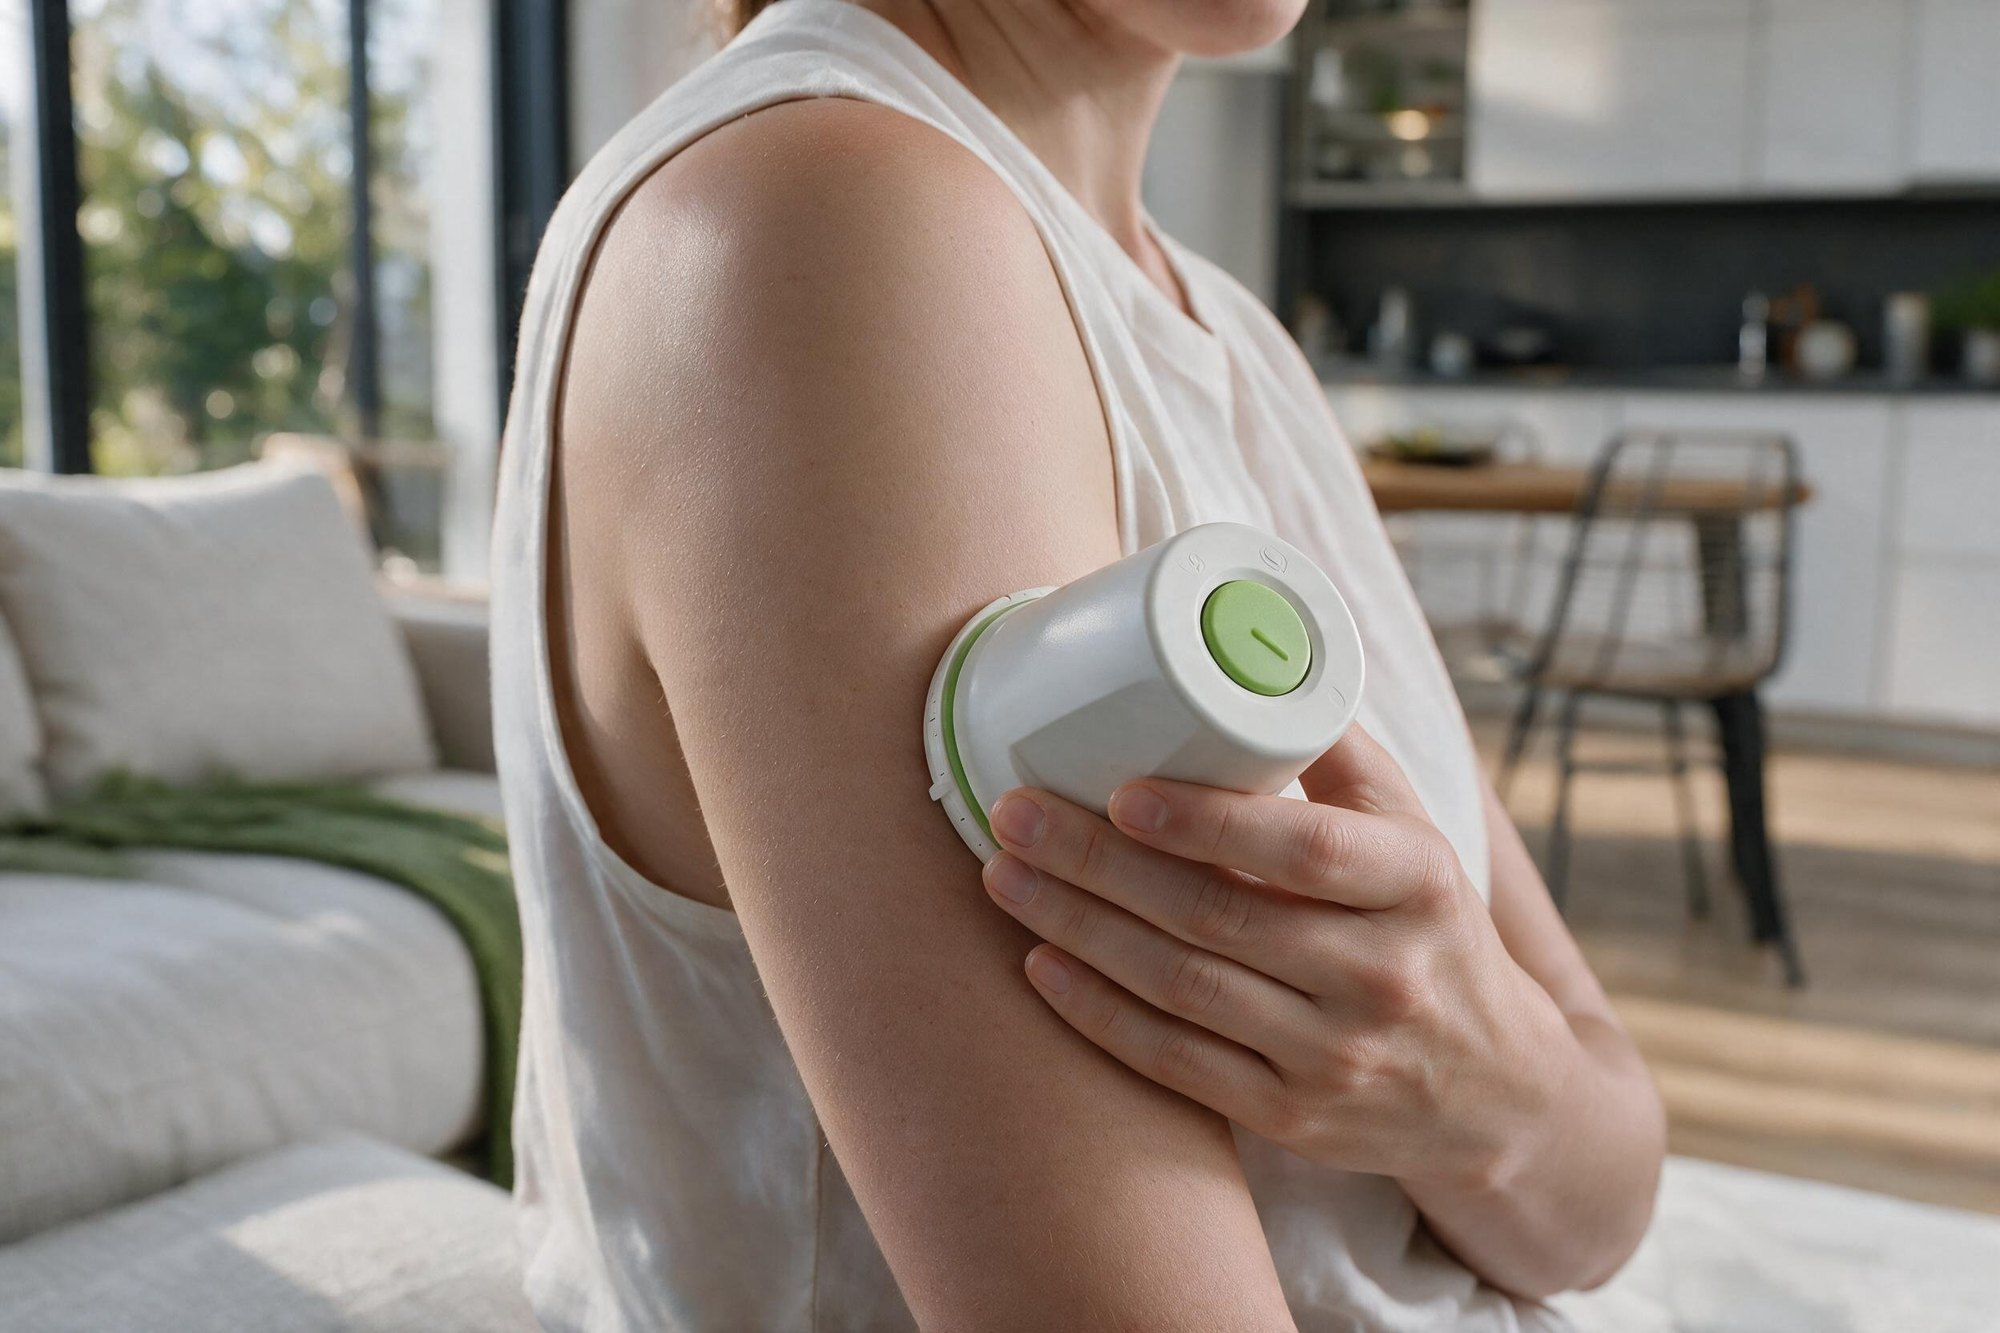
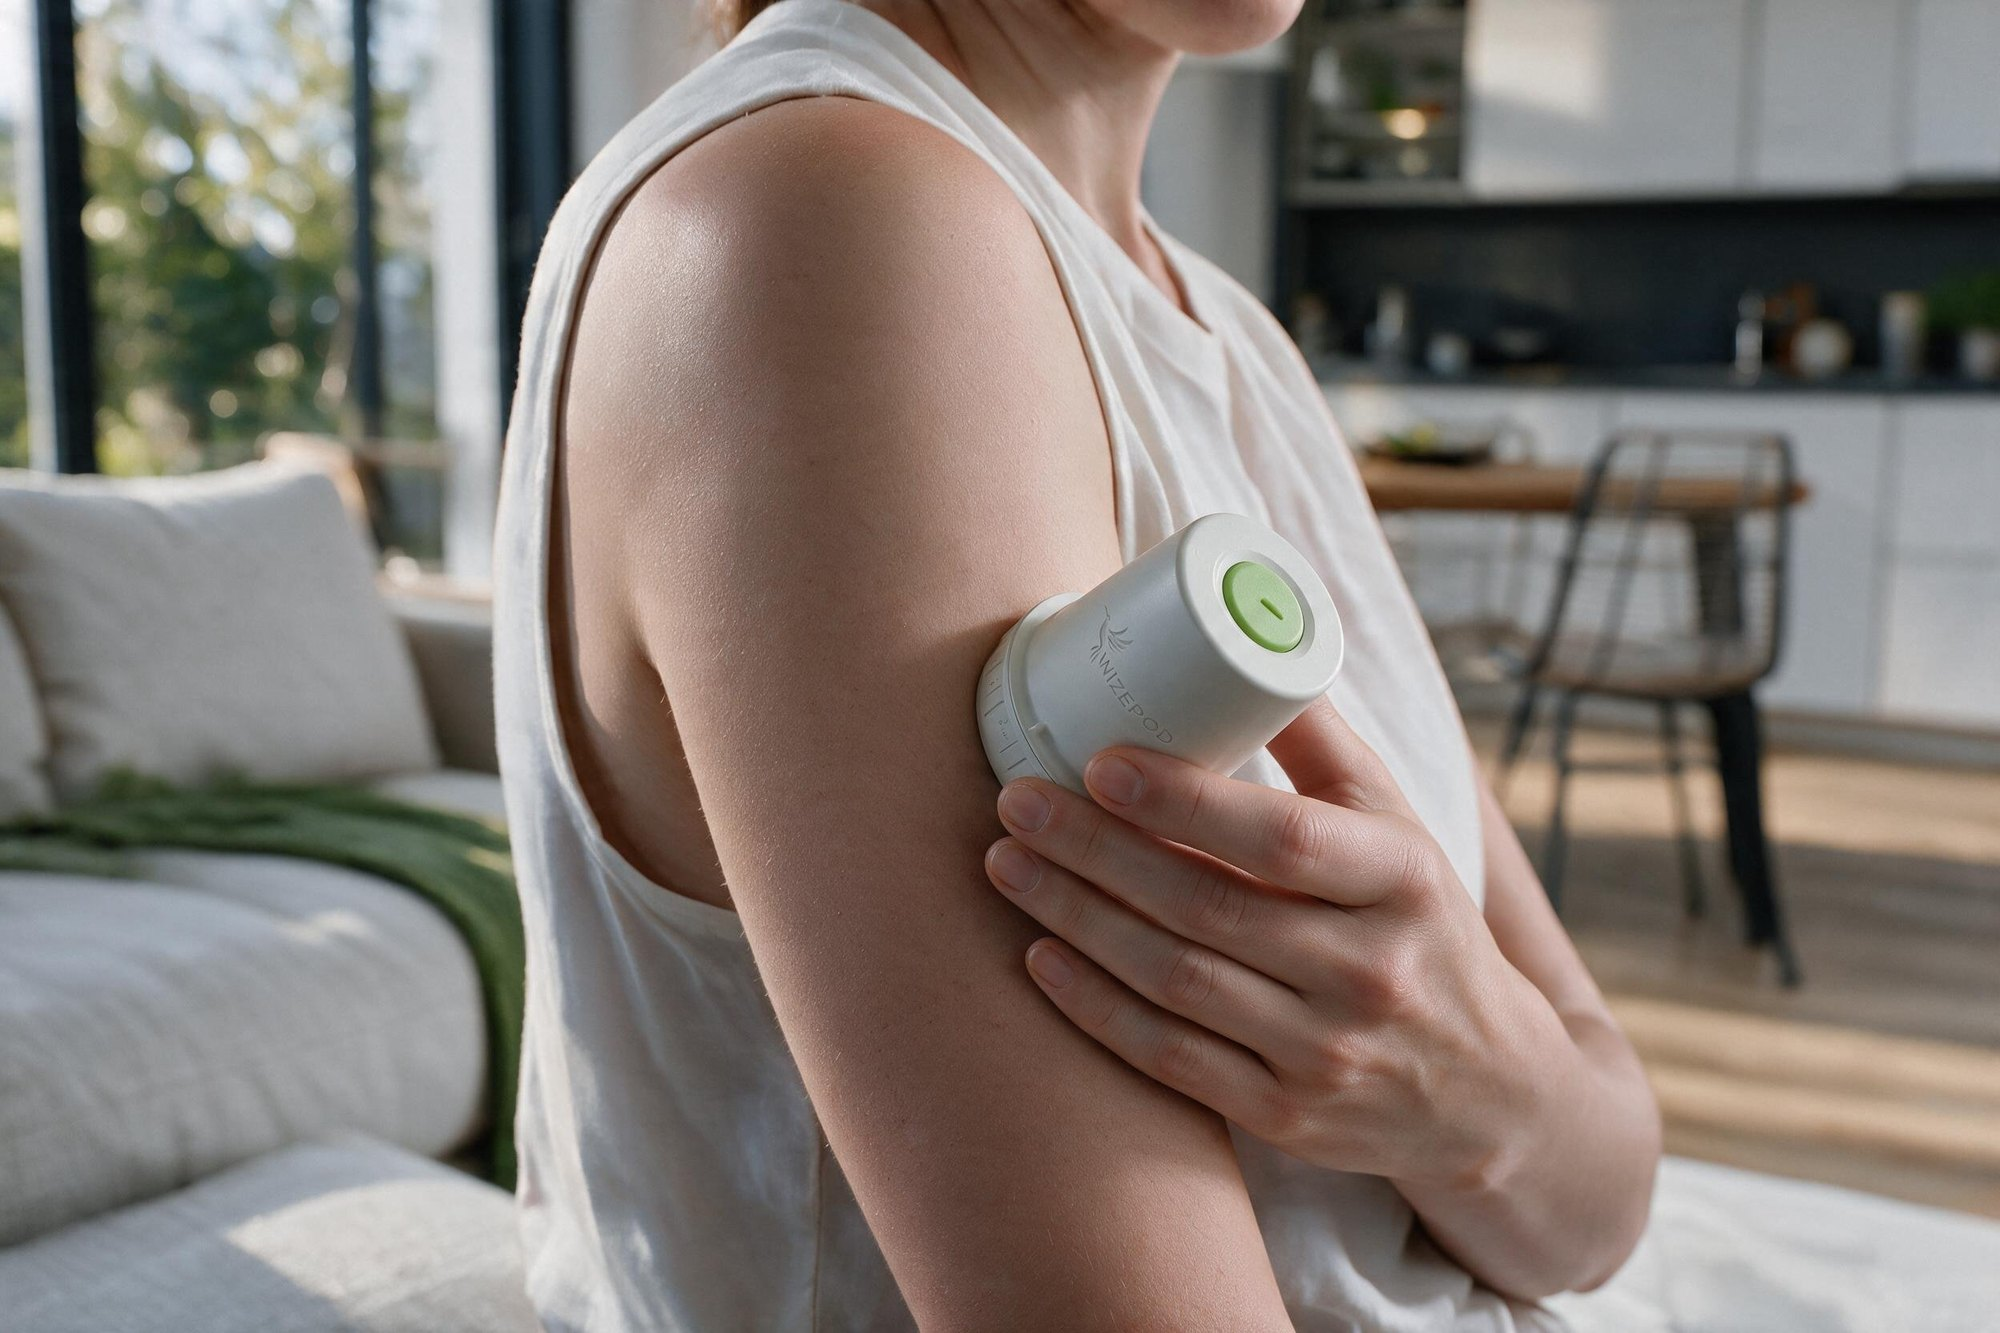
Use the true-size application frame and a liquid glass button motion
Swap in the application frame with the applicator scaled to its real
size and a plain white base, update the caption, and replace the light
sweep with slow blurred blobs that flow and morph inside the glass.

diff --git a/components/WizepodLayoutStudy.tsx b/components/WizepodLayoutStudy.tsx
@@ -65,17 +65,29 @@ const CSS = `
   animation:wz-ripple 1.5s cubic-bezier(.2,.7,.2,1) forwards;}
 @keyframes wz-ripple{0%{transform:translate(-50%,-50%) scale(.06);opacity:.95;}100%{transform:translate(-50%,-50%) scale(1);opacity:0;}}
 @property --rim-a{syntax:'<angle>';inherits:true;initial-value:0deg;}
-.wz-btn{animation:wz-rim 6s linear infinite, wz-breathe 4.5s ease-in-out infinite;}
-.wz-btn::after{content:'';position:absolute;inset:0;border-radius:inherit;pointer-events:none;
-  background:linear-gradient(110deg, rgba(255,255,255,0) 35%, rgba(255,255,255,.7) 47%, rgba(151,179,108,.22) 52%, rgba(255,255,255,0) 64%);
-  background-size:260% 100%;background-repeat:no-repeat;opacity:.9;animation:wz-sheen 5.5s cubic-bezier(.45,0,.25,1) infinite;}
-.wz-btn:hover::after{opacity:1;}
+.wz-btn{animation:wz-rim 8s linear infinite, wz-breathe 5s ease-in-out infinite;}
+.wz-liquid{position:absolute;inset:0;border-radius:inherit;overflow:hidden;pointer-events:none;}
+.wz-liquid i{position:absolute;top:-35%;height:170%;width:62%;filter:blur(5px);will-change:transform,border-radius;}
+.wz-liquid i:nth-child(1){left:-12%;opacity:.7;background:radial-gradient(circle at 45% 45%, rgba(255,255,255,.95), rgba(255,255,255,0) 68%);
+  animation:wz-flow-a 7.5s ease-in-out infinite;}
+.wz-liquid i:nth-child(2){left:46%;opacity:.55;background:radial-gradient(circle at 50% 55%, rgba(151,179,108,.55), rgba(151,179,108,0) 66%);
+  animation:wz-flow-b 9.5s ease-in-out infinite;}
+.wz-liquid i:nth-child(3){left:18%;width:40%;opacity:.5;background:radial-gradient(circle at 50% 50%, rgba(255,255,255,.8), rgba(255,255,255,0) 70%);
+  animation:wz-flow-c 11s ease-in-out infinite;}
+.wz-btn:hover .wz-liquid i{animation-duration:3.8s, 4.8s, 5.5s;}
 .wz-label{position:relative;z-index:1;display:inherit;align-items:inherit;gap:inherit;}
 @keyframes wz-rim{to{--rim-a:360deg;}}
-@keyframes wz-sheen{0%{background-position:130% 0;}45%,100%{background-position:-30% 0;}}
+@keyframes wz-flow-a{0%,100%{transform:translate(0,0) rotate(0deg) scale(1);border-radius:42% 58% 63% 37% / 45% 40% 60% 55%;}
+  33%{transform:translate(55%,6%) rotate(35deg) scale(1.18,.92);border-radius:62% 38% 35% 65% / 55% 62% 38% 45%;}
+  66%{transform:translate(22%,-8%) rotate(-18deg) scale(.9,1.1);border-radius:36% 64% 55% 45% / 62% 34% 66% 38%;}}
+@keyframes wz-flow-b{0%,100%{transform:translate(0,0) rotate(0deg) scale(1);border-radius:55% 45% 40% 60% / 40% 58% 42% 60%;}
+  40%{transform:translate(-60%,-6%) rotate(-30deg) scale(1.15,.9);border-radius:38% 62% 60% 40% / 60% 42% 58% 40%;}
+  75%{transform:translate(-25%,8%) rotate(20deg) scale(.92,1.08);border-radius:64% 36% 45% 55% / 45% 60% 40% 55%;}}
+@keyframes wz-flow-c{0%,100%{transform:translate(0,4%) scale(1);border-radius:50% 50% 45% 55% / 55% 45% 55% 45%;}
+  50%{transform:translate(90%,-4%) scale(1.25,.85);border-radius:40% 60% 58% 42% / 45% 58% 42% 55%;}}
 @keyframes wz-breathe{0%,100%{box-shadow:var(--glass-highlight), var(--glass-shadow);}50%{box-shadow:inset 0 0 0 .5px rgba(255,255,255,.25), inset 0 0 16px rgba(255,255,255,.5), inset -3px 4px 3px -2px rgba(255,255,255,.8), inset 3px -4px 3px -2px rgba(255,255,255,.6), inset 0 -10px 18px -12px rgba(255,255,255,.55), var(--glass-shadow);}}
 .wz-btn:hover{animation-play-state:running;}
-@media (prefers-reduced-motion: reduce){.wz-ripple{animation-duration:.01s;}.wz-btn,.wz-btn::after{animation:none;transition:none;}}
+@media (prefers-reduced-motion: reduce){.wz-ripple{animation-duration:.01s;}.wz-btn,.wz-liquid i{animation:none;transition:none;}}
 `;
 
 type Ripple = { id: number; x: number; y: number };
@@ -110,6 +122,9 @@ const Frame: React.FC<{ aspect: string; pos: string; label: string; ringSize: st
     </section>
   );
 };
+
+// Slow liquid light moving inside the glass, so the button reads as interactive without a click
+const Liquid: React.FC = () => <span className="wz-liquid" aria-hidden><i /><i /><i /></span>;
 
 const Crosshair: React.FC<{ x: string; y: string; size?: number }> = ({ x, y, size = 22 }) => (
   <div style={{ left: x, top: y, width: size, height: size, margin: `-${size / 2}px 0 0 -${size / 2}px` }}>
@@ -155,7 +170,7 @@ export const WizepodLayoutStudy: React.FC<{ language: Language }> = ({ language 
           <div style={{ position: 'absolute', left: '62%', top: '14.5%', width: '30%', display: 'flex', flexDirection: 'column', gap: '1.8cqw', alignItems: 'flex-start' }}>
             <p className="wz-body" style={{ fontSize: '1.3cqw' }}>{c.body}</p>
             <div style={{ display: 'flex', alignItems: 'center', gap: '1.8cqw', fontSize: '1.1cqw' }}>
-              <button type="button" data-ripple className="wz-glass wz-btn" style={{ gap: '.7cqw', padding: '1.15cqw 2.5cqw' }}><span className="wz-label">{c.buy}</span></button>
+              <button type="button" data-ripple className="wz-glass wz-btn" style={{ gap: '.7cqw', padding: '1.15cqw 2.5cqw' }}><Liquid /><span className="wz-label">{c.buy}</span></button>
               <button type="button" data-ripple className="wz-link" style={{ paddingBottom: '.2cqw' }}>{c.how}</button>
             </div>
           </div>
@@ -197,6 +212,7 @@ export const WizepodLayoutStudy: React.FC<{ language: Language }> = ({ language 
               <button type="button" data-ripple className="wz-link" style={{ fontSize: '4.1cqw', paddingBottom: '.6cqw' }}>{c.how}</button>
             </div>
             <button type="button" data-ripple className="wz-glass wz-btn" style={{ position: 'absolute', left: '6%', right: '6%', bottom: '6%', height: '13.5cqw', minHeight: 48, justifyContent: 'center', gap: '2cqw', fontSize: '4.3cqw' }}>
+              <Liquid />
               <span className="wz-label"><span className="wz-dot" style={{ width: '1.6cqw', height: '1.6cqw' }} />{c.buy}</span>
             </button>
             {guides && (

diff --git a/components/WizepodAICaseStudy.tsx b/components/WizepodAICaseStudy.tsx
@@ -404,8 +404,8 @@ export const WizepodAICaseStudy: React.FC<{ language: Language }> = ({ language 
             num="07"
             title={isEN ? 'Application: film and frame' : 'Uygulama: film ve kare'}
             lead={isEN
-              ? 'The AI frame gets one correction pass: the sensor that appeared on the arm before the application is removed and the underarm is cleaned. Below, each 3D animation sits next to the AI frame it informed.'
-              : 'AI karesi tek düzeltme turundan geçti: uygulamadan önce kolda beliren sensör kaldırıldı, koltuk altı temizlendi. Altta her 3D animasyon, beslediği AI karesinin yanında.'}
+              ? 'The AI frame went through edit passes, not reshoots: the sensor that appeared on the arm too early is removed, the underarm is cleaned, and the applicator is scaled down to its true size with a plain white base, guided by the 3D application render. Below, each 3D animation sits next to the AI frame it informed.'
+              : 'AI karesi yeniden üretilmedi, düzeltme turlarından geçti: kolda erken beliren sensör kaldırıldı, koltuk altı temizlendi, aplikatör 3D uygulama render\'ı referans alınarak gerçek boyuna küçültüldü ve tabanı beyaza döndü. Altta her 3D animasyon, beslediği AI karesinin yanında.'}
           />
           <figure className="mt-8 md:mt-16">
             <BeforeAfter before={`${DIR}/apply_raw.jpg`} after={`${DIR}/apply_final.jpg`} beforeLabel={isEN ? 'Raw' : 'Ham'} afterLabel="Final" />
